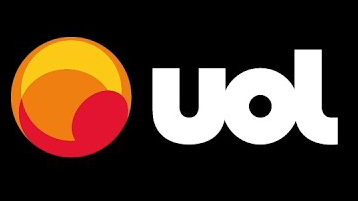
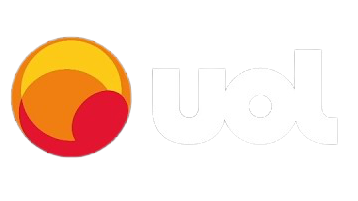
fixing css: text color

diff --git a/front/src/components/AppBar/index.tsx b/front/src/components/AppBar/index.tsx
@@ -8,7 +8,7 @@ import Image from 'next/image';
 
 const AppBarCustom = () => {
     return (
-        <AppBar sx={{ backgroundColor: 'black' }} className={styles.appBar}>
+        <AppBar sx={{ backgroundColor: '#333333', alignItems: 'center' }} className={styles.appBar}>
             <Image src={uol} alt="profile" height={50} />
         </AppBar>
     );

diff --git a/front/src/components/UserForm/style.module.scss b/front/src/components/UserForm/style.module.scss
@@ -4,11 +4,14 @@
 .userListHeader {
     @include flexAlign(row, space-between);
     margin-block: 10px;
+    color: #474747;
 }
 
 .form {
     @include flexAlign(column, flex-start, flex-start);
     @include size(30%);
+    color: #474747;
+
     .error {
         color: red;
         font-size: 0.8rem;

diff --git a/front/src/components/AppBar/style.module.scss b/front/src/components/AppBar/style.module.scss
@@ -1,7 +1,8 @@
 .appBar {
     // position: static;
-    height: 60px;
+    height: 75px;
     display: flex;
     align-items: center;
-    background-color: black;
+    justify-content: center; // This centers items horizontally
+    background-color: #333333;
 }

diff --git a/front/src/components/UserRow/style.module.scss b/front/src/components/UserRow/style.module.scss
@@ -20,7 +20,7 @@
     margin-block: 20px;
     padding: 20px;
     border: 1px solid rgb(200, 200, 200);
-
+    color: #474747;
     .innerContainer {
         @include flexAlign(column, flex-start, flex-start);
         flex: 1;

diff --git a/front/src/components/UserTable/style.module.scss b/front/src/components/UserTable/style.module.scss
@@ -5,6 +5,7 @@
     align-items: center;
     justify-content: space-between;
     margin-block: 10px;
+    color: #474747;
 }
 
 .editButton {

diff --git a/front/src/components/UserEditForm/style.module.scss b/front/src/components/UserEditForm/style.module.scss
@@ -4,6 +4,7 @@
 .userListHeader {
     @include flexAlign(row, space-between);
     margin-block: 10px;
+    color: #474747;
 }
 
 .form {

diff --git a/front/src/components/UserHeader/style.module.scss b/front/src/components/UserHeader/style.module.scss
@@ -2,4 +2,5 @@
 
 .clientPanelHeader {
     @include flexAlign(row, left, center);
+    color: #474747;
 }
